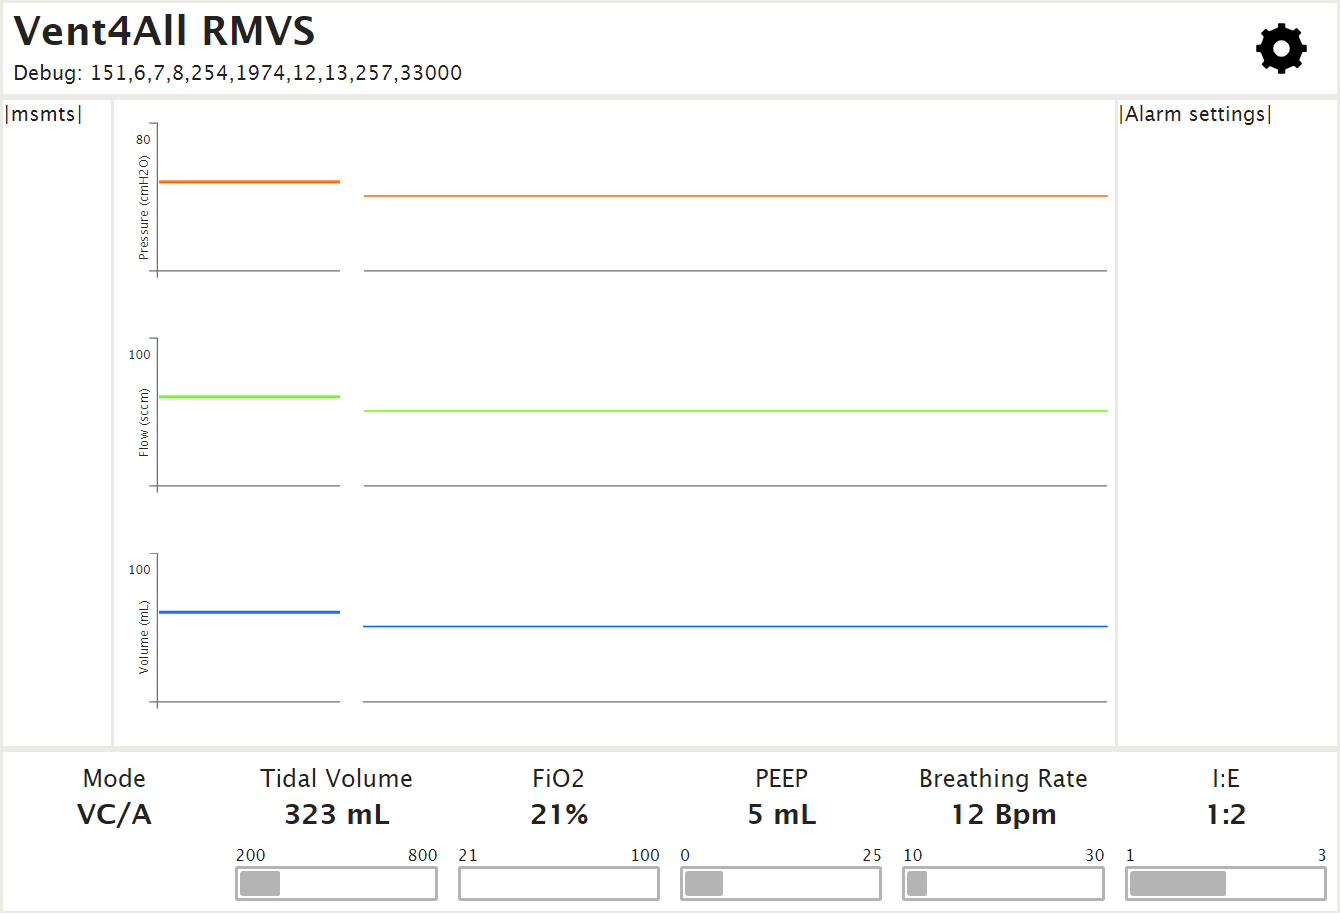
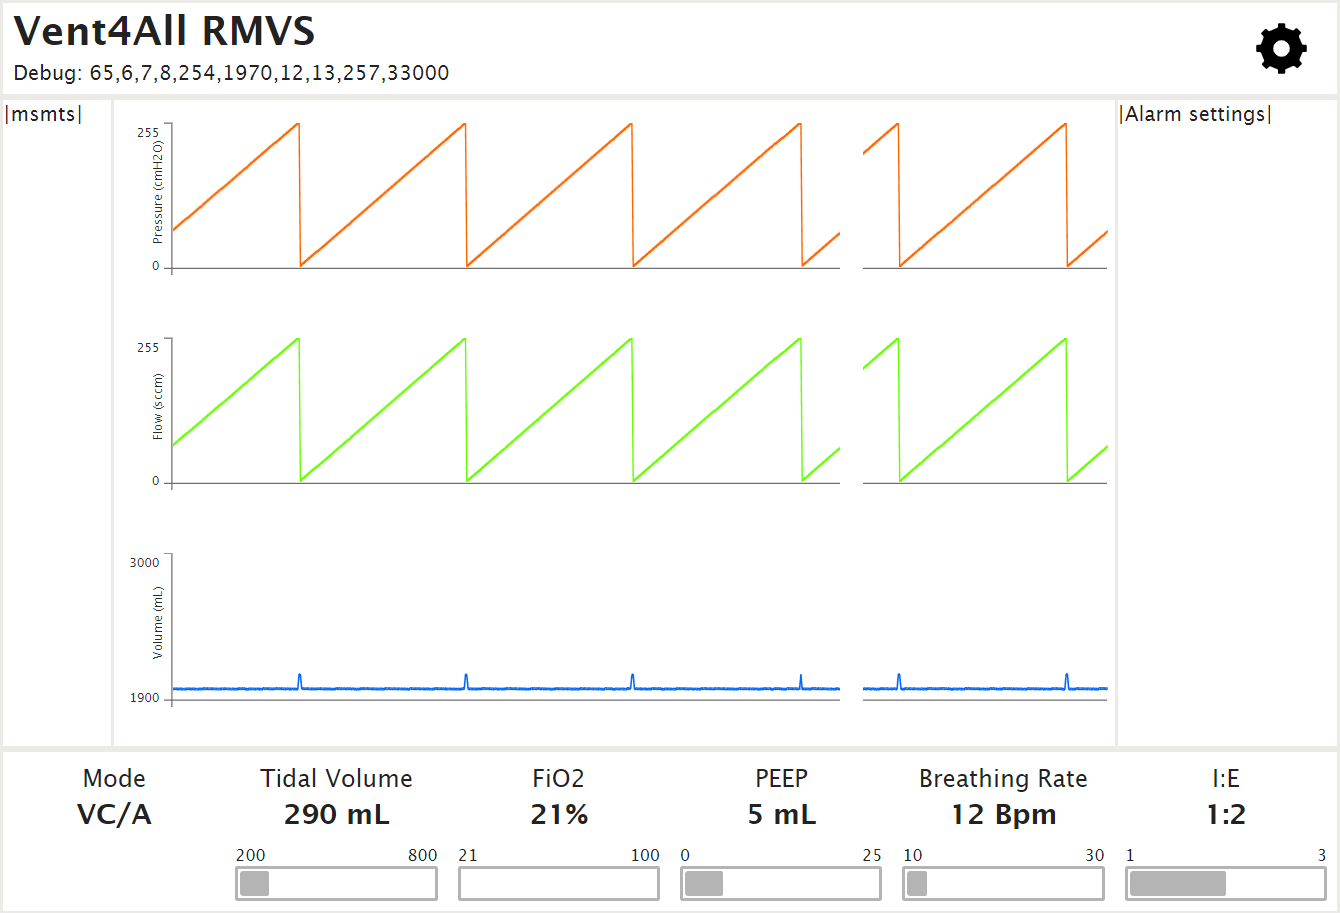
Better chart parametrs. Removed magic numbers. Improved axes labeling.

diff --git a/js/widgets/chart.js b/js/widgets/chart.js
@@ -1,19 +1,31 @@
 "use strict"
+import { scale, isEqualWithinThreshold } from "../common/helpers.js";
 
 /**
  * Todo: 
  * - redraw upon window resize (store data)
  * - Compute second line offset correctly
- * - Commpute yaxis label location 
+ * - make drawing fps-invariant
  */
-export default (containerId, title, color = {r: 0.8, g: 0.2, b: 0.2, a: 1}, timeWindow = 12) => {
+
+/**
+ * Chart instance
+ * @param {*} containerId 
+ * @param {*} title 
+ * @param {*} color 
+ * @param {*} timeWindow in seconds
+ * @param {*} yMin 
+ * @param {*} yMax 
+ * @param {*} moverLength in seconds
+ */
+const chart = (containerId, title, color = { r: 0.8, g: 0.2, b: 0.2, a: 1 }, timeWindow = 12, yMin = 0, yMax = 255, moverLength = 0.3) => {
     //------------------------1. PREPARATION------------------------//
     //-----------------------------SVG------------------------------// 
     // create elements (svg container, canvas, mover)
     const containerEl = document.getElementById(containerId);
-    const svgContainer = document.createElement("div");  
-    const canvasEl = document.createElement("canvas");  
-    const moverEl = document.createElement("div");  
+    const svgContainer = document.createElement("div");
+    const canvasEl = document.createElement("canvas");
+    const moverEl = document.createElement("div");
 
     svgContainer.classList.add("svg-container");
     canvasEl.classList.add("canvas-chart");
@@ -21,22 +33,21 @@ export default (containerId, title, color = {r: 0.8, g: 0.2, b: 0.2, a: 1}, time
 
     containerEl.appendChild(svgContainer);
     containerEl.appendChild(canvasEl);
-    containerEl.appendChild(moverEl);    
+    containerEl.appendChild(moverEl);
 
     const margin = 0;
     const padding = 2;
     const adj = 25;
     const width = containerEl.clientWidth;
-    const height = containerEl.clientHeight - 2*adj;
-
+    const height = containerEl.clientHeight - 2 * adj;
 
     // Append SVG for axes drawing
     const svg = d3.select(svgContainer).append("svg")
         .attr("preserveAspectRatio", "xMinYMin meet")
         .attr("viewBox", "-"
-            + adj + " -"
+            + adj * 1.5 + " -" // adjust for padding left
             + 0 + " "
-            + (width + adj) + " "
+            + (width + adj * 1.5) + " " // should be same value as padding left
             + (height + 20))
         .style("padding", padding)
         .style("margin", margin)
@@ -68,23 +79,6 @@ export default (containerId, title, color = {r: 0.8, g: 0.2, b: 0.2, a: 1}, time
         .attr('id', 'yaxis')
         .call(yaxis);
 
-    yaxisEl.append("text")
-        .attr("transform", "rotate(-90)")
-        .attr("dy", ".75em")
-        .attr("x", -70)
-        .attr("y", -15)
-        .style("text-anchor", "middle")
-        .text(title);
-
-    yaxisEl.append("text")
-        .attr("dy", ".75em")
-        .attr("x", -5)
-        .attr("y", 10)
-        .style("text-anchor", "end")
-        .attr("class", "yRangeValue")
-        .text("100");
-
-    // Setup mover    
     const coords = () => ({
         xaxis: svg.select("g.xaxis").node().getBoundingClientRect(),
         yaxis: svg.select("g.yaxis").node().getBoundingClientRect(),
@@ -93,27 +87,53 @@ export default (containerId, title, color = {r: 0.8, g: 0.2, b: 0.2, a: 1}, time
     });
     let elCoords = coords();
 
+    yaxisEl.append("text")
+        .attr("transform", "rotate(-90)")
+        .attr("dy", ".75em")
+        .attr("x", -1 * elCoords.yaxis.height / 2)
+        .attr("y", -15)
+        .style("text-anchor", "middle")
+        .text(title);
+
+    yaxisEl.append("text")
+        .attr("dy", ".75em")
+        .attr("x", -10)
+        .attr("y", elCoords.yaxis.height)
+        .style("text-anchor", "end")
+        .attr("class", "yRangeValue")
+        .text(yMin);
+
+    yaxisEl.append("text")
+        .attr("dy", ".75em")
+        .attr("x", -10)
+        .attr("y", 5)
+        .style("text-anchor", "end")
+        .attr("class", "yRangeValue")
+        .text(yMax);
+
+    // Setup mover    
     const updateFrequency = 60; // fps
     const numX = timeWindow * updateFrequency; // Number of datapoints
 
-    const moverLength = 0.3; // seconds
-    const moverElWidth = (elCoords.xaxis.width / numX) * (moverLength * updateFrequency);    
+    elCoords = coords();
+    const moverElWidth = (elCoords.xaxis.width / numX) * (moverLength * updateFrequency);
     moverEl.style.top = `${elCoords.yaxis.top}px`;
     moverEl.style.width = `${moverElWidth}px`;
-    moverEl.style.height = `${elCoords.yaxis.height}px`;
+    let glMoverHeight = elCoords.xaxis.bottom - elCoords.yaxis.top + 1;
+    moverEl.style.height = `${glMoverHeight}px`;
 
     // Setup webgl plot    
     canvasEl.style.top = `${elCoords.yaxis.top}px`;
     canvasEl.style.width = `${elCoords.xaxis.width}px`;
-    canvasEl.style.height = `${elCoords.yaxis.height - 1}px`;
+    let glChartHeight = elCoords.xaxis.top - elCoords.yaxis.top - 1;
+    canvasEl.style.height = `${glChartHeight}px`;
     canvasEl.style.left = `${elCoords.yaxis.left + elCoords.yaxis.width + 1}px`;
 
-    
-    const lineColor = new webglplotBundle.ColorRGBA(color.r, color.g, color.b, color.a);    
-    const line = new webglplotBundle.WebglLine(lineColor, numX);    
-    const line2 = new webglplotBundle.WebglLine(lineColor, numX);   
-    const wglp = new webglplotBundle.WebGLplot(canvasEl, new webglplotBundle.ColorRGBA(1,0.1,0.1,1) );
-    
+    const lineColor = new webglplotBundle.ColorRGBA(color.r, color.g, color.b, color.a);
+    const line = new webglplotBundle.WebglLine(lineColor, numX);
+    const line2 = new webglplotBundle.WebglLine(lineColor, numX);
+    const wglp = new webglplotBundle.WebGLplot(canvasEl, new webglplotBundle.ColorRGBA(1, 0.1, 0.1, 1));
+
     line.lineSpaceX(-1, 2 / numX);
     line2.lineSpaceX(-1, 2 / numX);
     wglp.addLine(line);
@@ -121,52 +141,41 @@ export default (containerId, title, color = {r: 0.8, g: 0.2, b: 0.2, a: 1}, time
 
     const setLineValue = (i, val) => {
         if (i < line.numPoints) {
-            line.setY(i,val);
-            line2.setY(i,val + 0.02);
+            line.setY(i, val);
+            line2.setY(i, val + 0.02);
         }
     };
-    const scale = (inputY, yRange, xRange) => {
-        const [xMin, xMax] = xRange;
-        const [yMin, yMax] = yRange;
-        
-        const percent = (inputY - yMin) / (yMax - yMin);
-        const outputX = percent * (xMax - xMin) + xMin;
-        
-        return outputX;
-    };
-    const isEqual = (a, b) => {
-        return Math.abs(a - b) > 0.5;
-    }
 
-    const yPMin = 0;
-    const yPMax = 255;
     let t = 0;
     return {
-        update(value) {        
-            const val = scale(value, [yPMin, yPMax],[-1, 1])
+        update(value) {
+            const val = scale(value, [yMin, yMax], [-1, 1]);
             setLineValue(t, val);
 
             elCoords = coords();
-            if (isEqual(elCoords.yaxis.top, elCoords.mover.top)) {
+            if (isEqualWithinThreshold(elCoords.yaxis.top, elCoords.mover.top)) {
                 moverEl.style.top = `${elCoords.yaxis.top}px`;
                 canvasEl.style.top = `${elCoords.yaxis.top}px`;
-            }          
-            if (isEqual(elCoords.chart.width, elCoords.xaxis.width)) {
+            }
+            if (isEqualWithinThreshold(elCoords.chart.width, elCoords.xaxis.width)) {
                 canvasEl.style.width = `${elCoords.xaxis.width}px`;
             }
-            if (isEqual(elCoords.mover.height, elCoords.yaxis.height + 3) || isEqual(elCoords.chart.height, elCoords.yaxis.height - 1)) {
-                moverEl.style.height = `${elCoords.yaxis.height + 3}px`;
-                canvasEl.style.height = `${elCoords.yaxis.height - 1}px`;
-            }      
-            if (isEqual(elCoords.chart.left, elCoords.yaxis.left + elCoords.yaxis.width + 1)) {
+            
+            glChartHeight = elCoords.xaxis.top - elCoords.yaxis.top - 1;
+            glMoverHeight = elCoords.xaxis.bottom - elCoords.yaxis.top + 1;
+            if (isEqualWithinThreshold(elCoords.mover.height, glMoverHeight) || isEqualWithinThreshold(elCoords.chart.height, glChartHeight)) {
+                moverEl.style.height = `${glMoverHeight}px`;
+                canvasEl.style.height = `${glChartHeight}px`;
+            }
+            if (isEqualWithinThreshold(elCoords.chart.left, elCoords.yaxis.left + elCoords.yaxis.width + 1)) {
                 canvasEl.style.left = `${elCoords.yaxis.left + elCoords.yaxis.width + 1}px`;
-            }           
+            }
 
             // Update mover 
             const moverElWidthNew = (elCoords.xaxis.width / numX) * (moverLength * updateFrequency);
-            if (isEqual(elCoords.mover.width, moverElWidthNew)) {
+            if (isEqualWithinThreshold(elCoords.mover.width, moverElWidthNew)) {
                 moverEl.style.width = `${moverElWidthNew}px`;
-            }  
+            }
             const span = elCoords.xaxis.width;
             const yOffset = (t / line.numPoints) * span - 2;
             const moverElLeft = elCoords.yaxis.left + elCoords.yaxis.width + yOffset;
@@ -179,7 +188,7 @@ export default (containerId, title, color = {r: 0.8, g: 0.2, b: 0.2, a: 1}, time
             }
 
             // Update time instant
-            t = (t+1) % line.numPoints;
+            t = (t + 1) % line.numPoints;
         },
         setYRange: (value) => {
             svg.select('text.yRangeValue').text(value);
@@ -192,3 +201,4 @@ export default (containerId, title, color = {r: 0.8, g: 0.2, b: 0.2, a: 1}, time
         }
     }
 }
+export default chart;

diff --git a/js/main.js b/js/main.js
@@ -17,10 +17,12 @@ $(document).ready(function() {
     const brCW = ControlWidget('cw4','Breathing Rate', 12, [10, 30], '', ' Bpm');    
     const ieCW = ControlWidget('cw5','I:E', 2, [1, 3], '1:', '');
 
-    const pChart = Chart("pchart", "Pressure (cmH2O)", { r: 1, g: 0.4, b: 0, a: 1});
-    const fChart = Chart("fchart", "Flow (sccm)", { r: 0.4, g: 1, b: 0, a: 1});
-    const vChart = Chart("vchart", "Volume (mL)", { r: 0, g: 0.4, b: 1, a: 1});
-    pChart.setYRange(80);
+    const timeWindow = 12;
+    const moverLength = 0.3;
+    const pChart = Chart("pchart", "Pressure (cmH2O)", { r: 1, g: 0.4, b: 0, a: 1}, timeWindow, 0, 255, moverLength);
+    const fChart = Chart("fchart", "Flow (sccm)", { r: 0.4, g: 1, b: 0, a: 1}, timeWindow, 0, 255, moverLength);
+    const vChart = Chart("vchart", "Volume (mL)", { r: 0, g: 0.4, b: 1, a: 1}, timeWindow, 1900, 3000, moverLength);
+    // pChart.setYRange(80);
 
     wsSocket.onmessage = function (event) {
         const data = JSON.parse(event.data);
@@ -29,7 +31,7 @@ $(document).ready(function() {
         }        
         pChart.update(data.value[0]);
         fChart.update(data.value[0]);
-        vChart.update(data.value[0]);
+        vChart.update(data.value[5]);
     }    
 
     let tv = 0;

diff --git a/js/widgets/control-variable.js b/js/widgets/control-variable.js
@@ -1,3 +1,6 @@
+"use strict"
+import {clamp, pct} from "../common/helpers.js";
+
 /**
  * Control widget
  * 
@@ -41,9 +44,6 @@ export default (containerId, title, initialValue = 0, limits = [0, 100], prefix 
     limitMin.textContent = limits[0];
     limitMax.textContent = limits[1];
 
-    const clamp = (nr, min, max) => {
-        return Math.min(Math.max(nr, min), max);
-    };
     const setValue = (val) => {
         if (val === currentVal) {
             return;
@@ -52,8 +52,7 @@ export default (containerId, title, initialValue = 0, limits = [0, 100], prefix 
             valueText.textContent = `${prefix}${val}${postfix}`;
         }        
         if (meterBar) {
-            const pct = ((val - limits[0]) / (limits[1] - limits[0])) * 100;
-            meterBar.style.width = `${clamp(pct, 0, 100)}%`;
+            meterBar.style.width = `${clamp(pct(val, limits[0], limits[1]), 0, 100)}%`;
         }
         currentVal = val;
     };

diff --git a/js/common/helpers.js b/js/common/helpers.js
@@ -1,0 +1,47 @@
+"use strict"
+
+/**
+ * Clamp
+ * @param {*} nr 
+ * @param {*} min 
+ * @param {*} max 
+ */
+export const clamp = (nr, min, max) => Math.min(Math.max(nr, min), max);
+
+/**
+ * 
+ * @param {*} a 
+ * @param {*} b 
+ */
+export const isEqualWithinThreshold = (a, b, th = 0.5) => Math.abs(a - b) > th;
+
+/**
+ * 
+ * @param {*} nr 
+ * @param {*} min 
+ * @param {*} max 
+ */
+export const pct = (nr, min, max) => ((nr - min) / (max - min)) * 100;
+
+/**
+ * 
+ * @param {*} inputY 
+ * @param {*} yRange 
+ * @param {*} xRange 
+ */
+export const scale = (inputY, yRange, xRange) => {
+    const [xMin, xMax] = xRange;
+    const [yMin, yMax] = yRange;
+    
+    const percent = (inputY - yMin) / (yMax - yMin);
+    const outputX = percent * (xMax - xMin) + xMin;
+    
+    return outputX;
+};
+
+export default  {
+    clamp,
+    isEqualWithinThreshold,
+    pct,
+    scale
+}

diff --git a/README.md b/README.md
@@ -1,4 +1,4 @@
 # RMVS-User-Interface
 User interface for the Vent4All rapidly manufactured ventilator system for COVID-19 induced ARDS treatment.
 
-![Screenshot of UI](https://github.com/Vent4All/rmvs-user-interface/raw/master/media/screenshot.png)
+![Screenshot of UI](https://github.com/Vent4All/rmvs-user-interface/raw/master/media/ui.gif)
